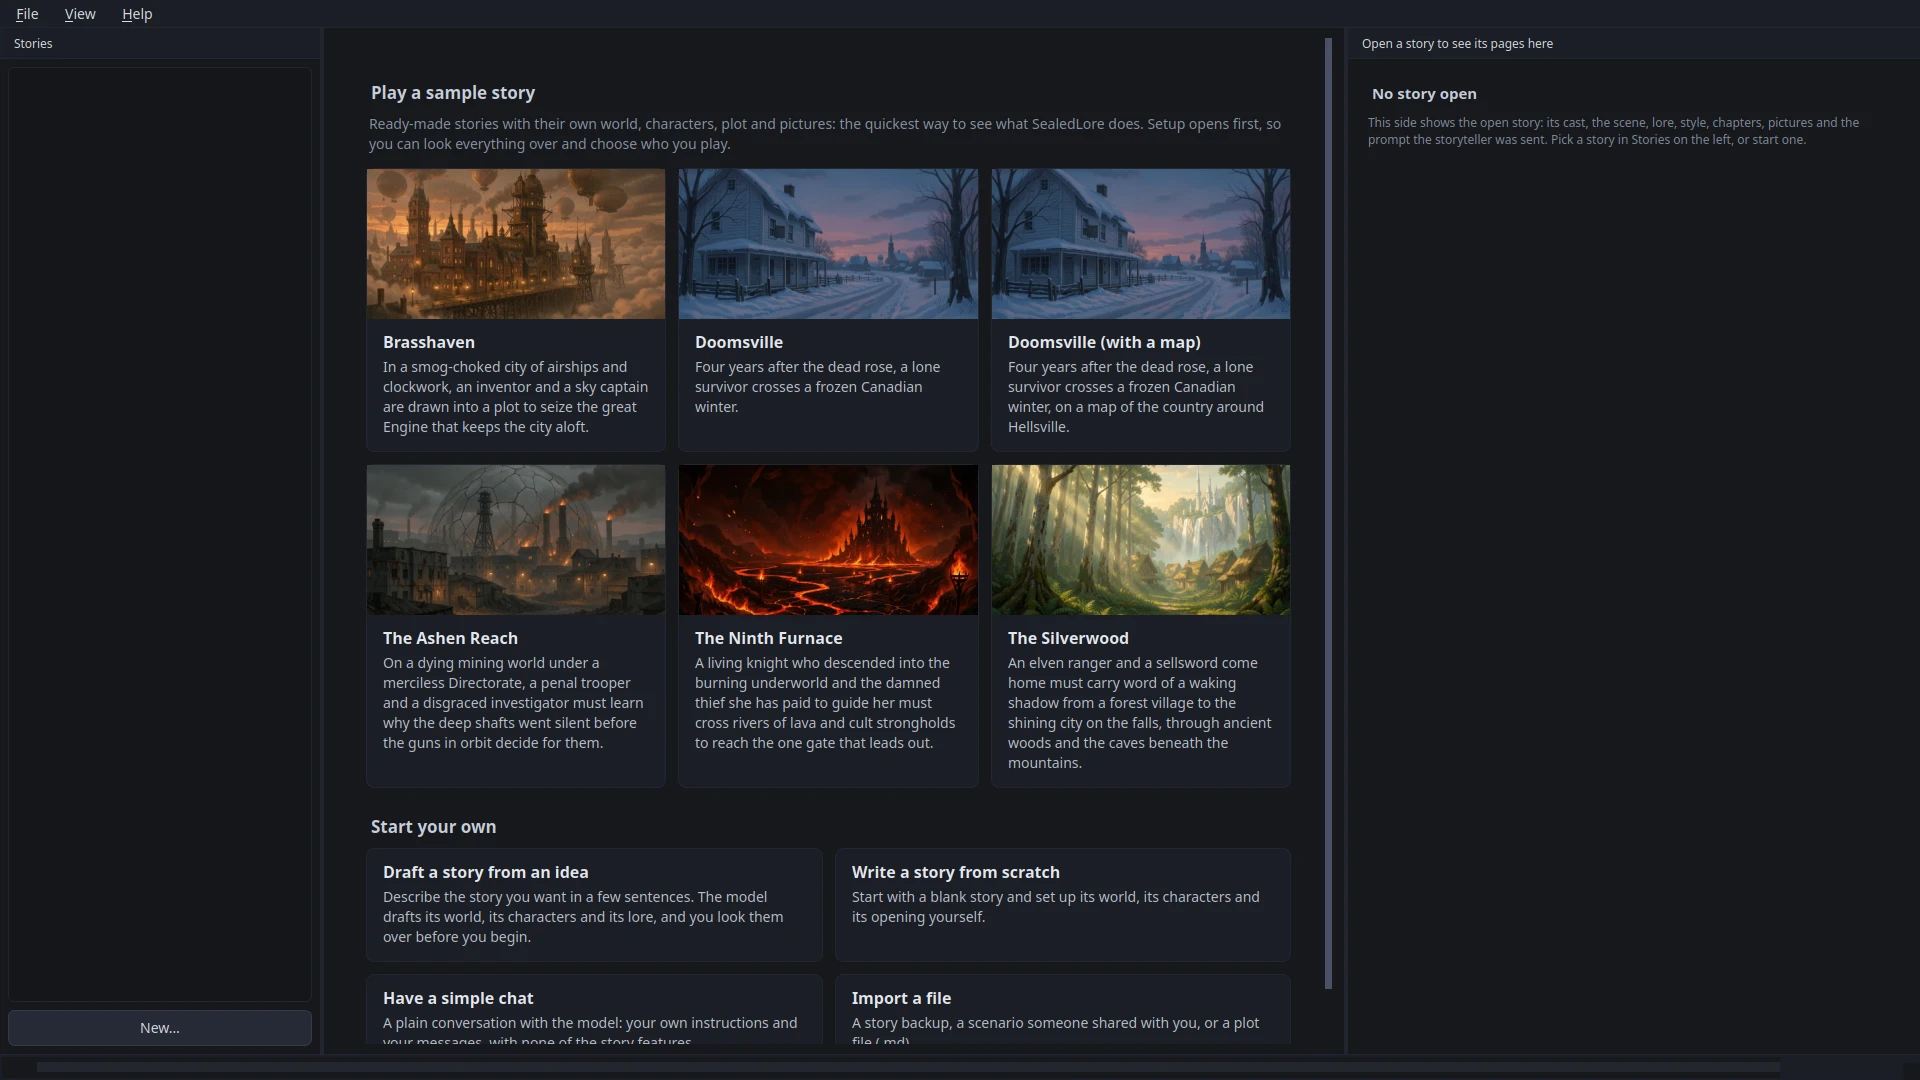
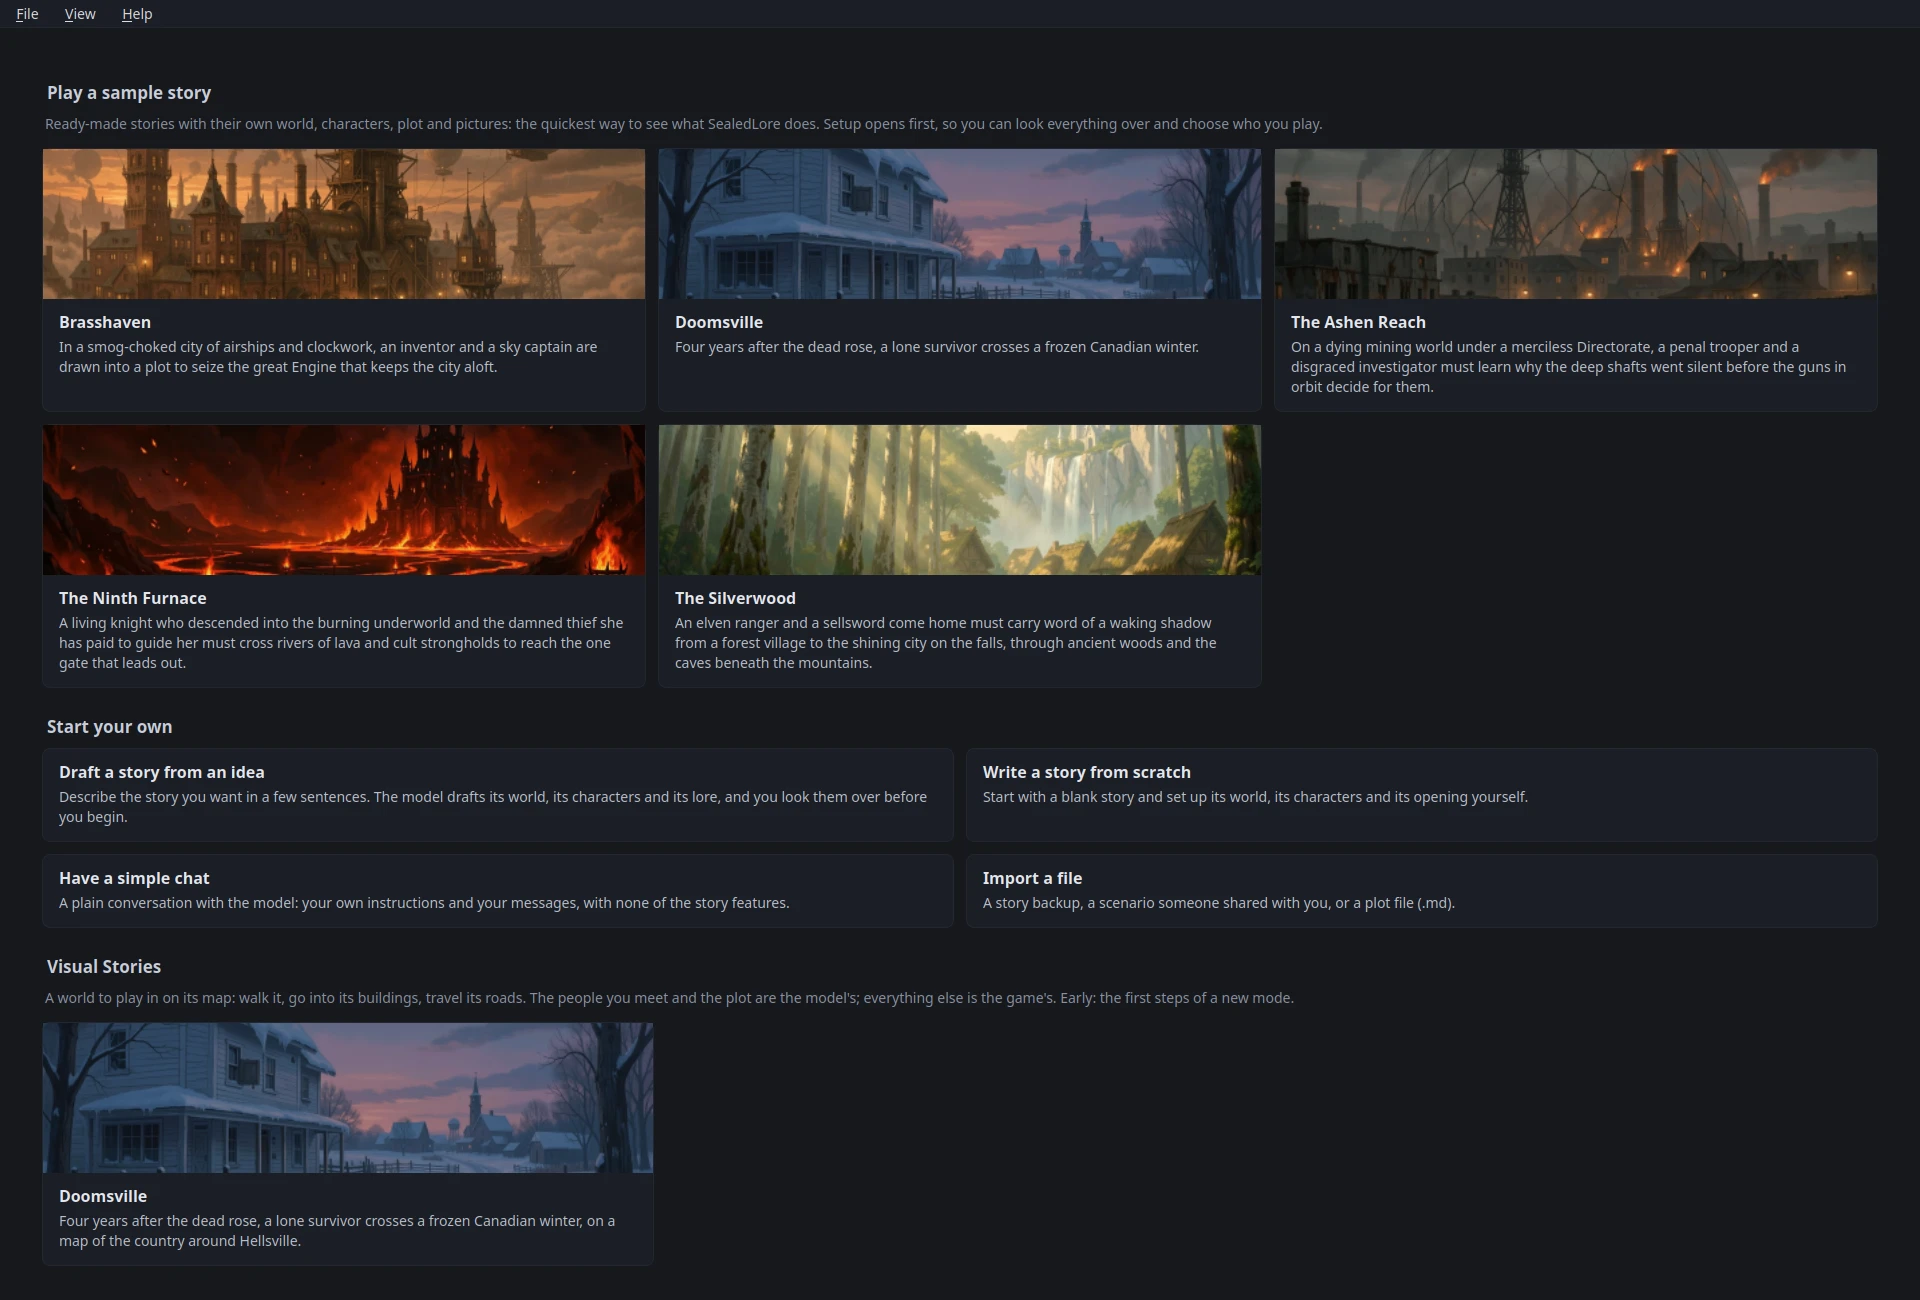
The start page's picture, with the Visual Stories

diff --git a/docs/manual.md b/docs/manual.md
@@ -436,7 +436,7 @@ stories, each with its picture. **File → New…** (Ctrl+N), and **New…** und
 the Stories list, show the same choices. A story saves itself as you go
 (Ctrl+S saves at once).
 
-![The start page with no stories yet: the sample stories first, each with its picture and a line on what it is, then the ways to start your own](screenshots/start-page.webp)
+![The start page with no stories yet: the sample stories first, each with its picture and a line on what it is, then the ways to start your own, then the Visual Stories](screenshots/start-page.webp)
 
 **Managing stories.** Right-click a story in the Stories list:
 - **Open folder** shows the story's files in your file manager (also for a

diff --git a/README.md b/README.md
@@ -3,7 +3,7 @@
 A Linux and Windows application for AI-driven roleplay with many characters
 in an open world, with a number of particularly useful features.
 
-![The start page: six sample stories, each with its picture and a line on what it is, and below them the ways to start a story of your own](docs/screenshots/start-page.webp)
+![The start page: five sample stories, each with its picture and a line on what it is, below them the ways to start a story of your own, and the Visual Stories, Doomsville first](docs/screenshots/start-page.webp)
 
 *Beta.* This application has been tested extensively both through
 automation and manually by the developer. It is however still in early
